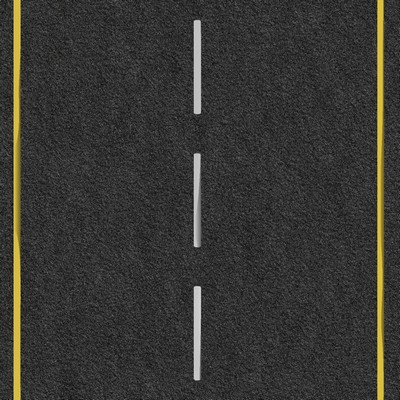
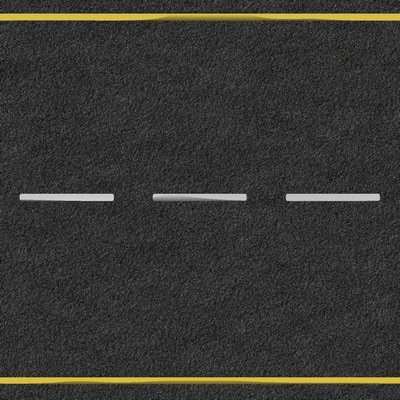
we can now draw roads. yay!

Changed region(s): [[0.0, 0.0, 1.0, 1.0]]

diff --git a/Server/Simulation/Road.cs b/Server/Simulation/Road.cs
@@ -12,46 +12,31 @@ namespace Server.Simulation
         public int SpeedLimit { get; set; }
         public float Angle { get; private set; }
 
+        private Vector2 origin;
+
         public Road(Point start, Point end, int width, int speedlimit = 30)
         {
             Start = start;
             End = end;
 
-            int x = end.X - (width / 2);
-            int y = end.Y;
-            int height = end.Y - start.Y;
+            origin = new Vector2(
+                Convert.ToSingle(Start.X),
+                Convert.ToSingle(Start.Y));
+
+            int x = Start.X - (width / 2);
+            int y = Start.Y;
+
+            int height = Convert.ToInt32(
+                Math.Sqrt(
+                Math.Pow(End.X - Start.X, 2.0) +
+                Math.Pow(End.Y - Start.Y, 2.0)));
+
             Surface = new Rectangle(
                 x,
                 y,
-                width,
-                height);
+                height,
+                width);
 
-            /*
-             * We don't use this code because this gives a 
-             * really odd bug in Mono.
-             * This should be the correct code though, 
-             * because this works in .NET on Windows.
-             * 
-            double dX = Convert.ToDouble(end.X - start.X);
-            double dY = Convert.ToDouble(end.Y - start.Y);
-
-            if (Math.Abs(dX) <= Double.Epsilon)
-            {
-                if (dY > 0.0)
-                {
-                    Angle = 90.0;
-                }
-                else
-                {
-                    Angle = 270.0;
-                }
-            }
-            else
-            {
-                Angle = Math.Atan2(dY, dX) * 180 / Math.PI;
-            }*/
-
-            // Instead, we use this code:
             int dX = End.X - Start.X;
             int dY = End.Y - Start.Y;
 
@@ -59,11 +44,11 @@ namespace Server.Simulation
             {
                 if (dY > 0)
                 {
-                    Angle = 90f;
+                    Angle = DegreesToRadians(90.0);
                 }
                 else
                 {
-                    Angle = 270f;
+                    Angle = DegreesToRadians(270.0);
                 }
             }
             else
@@ -71,11 +56,15 @@ namespace Server.Simulation
                 Angle = Convert.ToSingle(
                     Math.Atan2(
                     Convert.ToDouble(dY),
-                    Convert.ToDouble(dX))
-                    * 180 / Math.PI);
+                    Convert.ToDouble(dX)));
             }
 
             SpeedLimit = speedlimit;
+        }
+
+        private float DegreesToRadians(double degrees)
+        {
+            return Convert.ToSingle(Math.PI * degrees / 180.0);
         }
 
         public void Draw(SpriteBatch batch, Texture2D texture)
@@ -88,7 +77,7 @@ namespace Server.Simulation
                     null,
                     Color.White,
                     Angle,
-                    Vector2.Zero,
+                    Vector2.Zero,         // could be origin?
                     SpriteEffects.None,
                     0f);
             }

diff --git a/Server/Simulation/Engine.cs b/Server/Simulation/Engine.cs
@@ -18,24 +18,19 @@ namespace Server.Simulation
             : base()
         {
             // initialise graphics
-            GraphicsDeviceManager graphics = new GraphicsDeviceManager(this);
+            new GraphicsDeviceManager(this);
+
+            IsMouseVisible = true;
 
             // set up traffic system
             Road startRoad = new Road(
-                new Point(40, 40),
-                new Point(40, 100),
+                new Point(100, 40),
+                new Point(100, 100),
                 Settings.RoadWidth);
             Traffic = new TrafficManager(this, startRoad);
             Components.Add(Traffic);
 
             Content.RootDirectory = "Resources";
-        }
-
-        protected override void Initialize()
-        {
-            base.Initialize();
-
-            IsMouseVisible = true;
         }
 
         protected override void LoadContent()
@@ -52,14 +47,14 @@ namespace Server.Simulation
 
             MouseState mouse = Mouse.GetState();
 
-            if (previousState.LeftButton == ButtonState.Pressed &&
-                mouse.LeftButton == ButtonState.Released)
-            {
-                Point p = new Point(
-                    mouse.X,
-                    mouse.Y);
+            //System.Diagnostics.Debug.WriteLine(
+            //    mouse.Position.ToString());
 
-                Traffic.AddRoad(p);
+            if (previousState.LeftButton == ButtonState.Pressed &&
+                mouse.LeftButton == ButtonState.Released &&
+                GraphicsDevice.Viewport.Bounds.Contains(mouse.Position))
+            {
+                Traffic.AddRoad(mouse.Position);
             }
 
             previousState = mouse;
@@ -67,7 +62,7 @@ namespace Server.Simulation
 
         protected override void Draw(GameTime gameTime)
         {
-            GraphicsDevice.Clear(Color.Green);
+            GraphicsDevice.Clear(Color.White);
 
             base.Draw(gameTime);
         }

diff --git a/Server/Simulation/TrafficManager.cs b/Server/Simulation/TrafficManager.cs
@@ -5,7 +5,7 @@ using Microsoft.Xna.Framework.Graphics;
 
 namespace Server.Simulation
 {
-    public class TrafficManager : DrawableGameComponent
+    public class TrafficManager :  DrawableGameComponent, IDisposable
     {
         private List<Road> Network;
         private Dictionary<int, Car> Cars;
@@ -17,6 +17,8 @@ namespace Server.Simulation
 
         private Texture2D CarTexture;
         private Texture2D RoadTexture;
+
+        private bool disposed;
 
         public TrafficManager(Engine parent, Road start)
             : base(parent)
@@ -68,6 +70,10 @@ namespace Server.Simulation
                     }
                 }
 
+                foreach (Road r in Network)
+                {
+                    //Cars[i].Update(gameTime, );
+                }
             }
         }
 
@@ -109,7 +115,6 @@ namespace Server.Simulation
             {
                 Car target = Cars[CarsPointer];
                 Cars.Remove(CarsPointer);
-                //target.Dispose();
                 CarsPointer--;
             }
         }
@@ -139,6 +144,33 @@ namespace Server.Simulation
 
             Network.Add(r);
             Endpoint = r.End;
+        }
+
+        public void Dispose()
+        { 
+            Dispose(true);
+            GC.SuppressFinalize(this);           
+        }
+
+        protected virtual void Dispose(bool disposing)
+        {
+            if (disposed)
+                return; 
+
+            if (disposing) {
+                // free managed
+                CarTexture.Dispose();
+                RoadTexture.Dispose();
+            }
+
+            // free unmanaged
+
+            disposed = true;
+        }
+
+        ~TrafficManager()
+        {
+            Dispose(false);
         }
     }
 }

diff --git a/Server/Simulation/Car.cs b/Server/Simulation/Car.cs
@@ -32,7 +32,7 @@ namespace Server.Simulation
                 size.Height);
         }
 
-        public void Update()
+        public void Update(GameTime time, int maxspeed)
         {
 
         }
